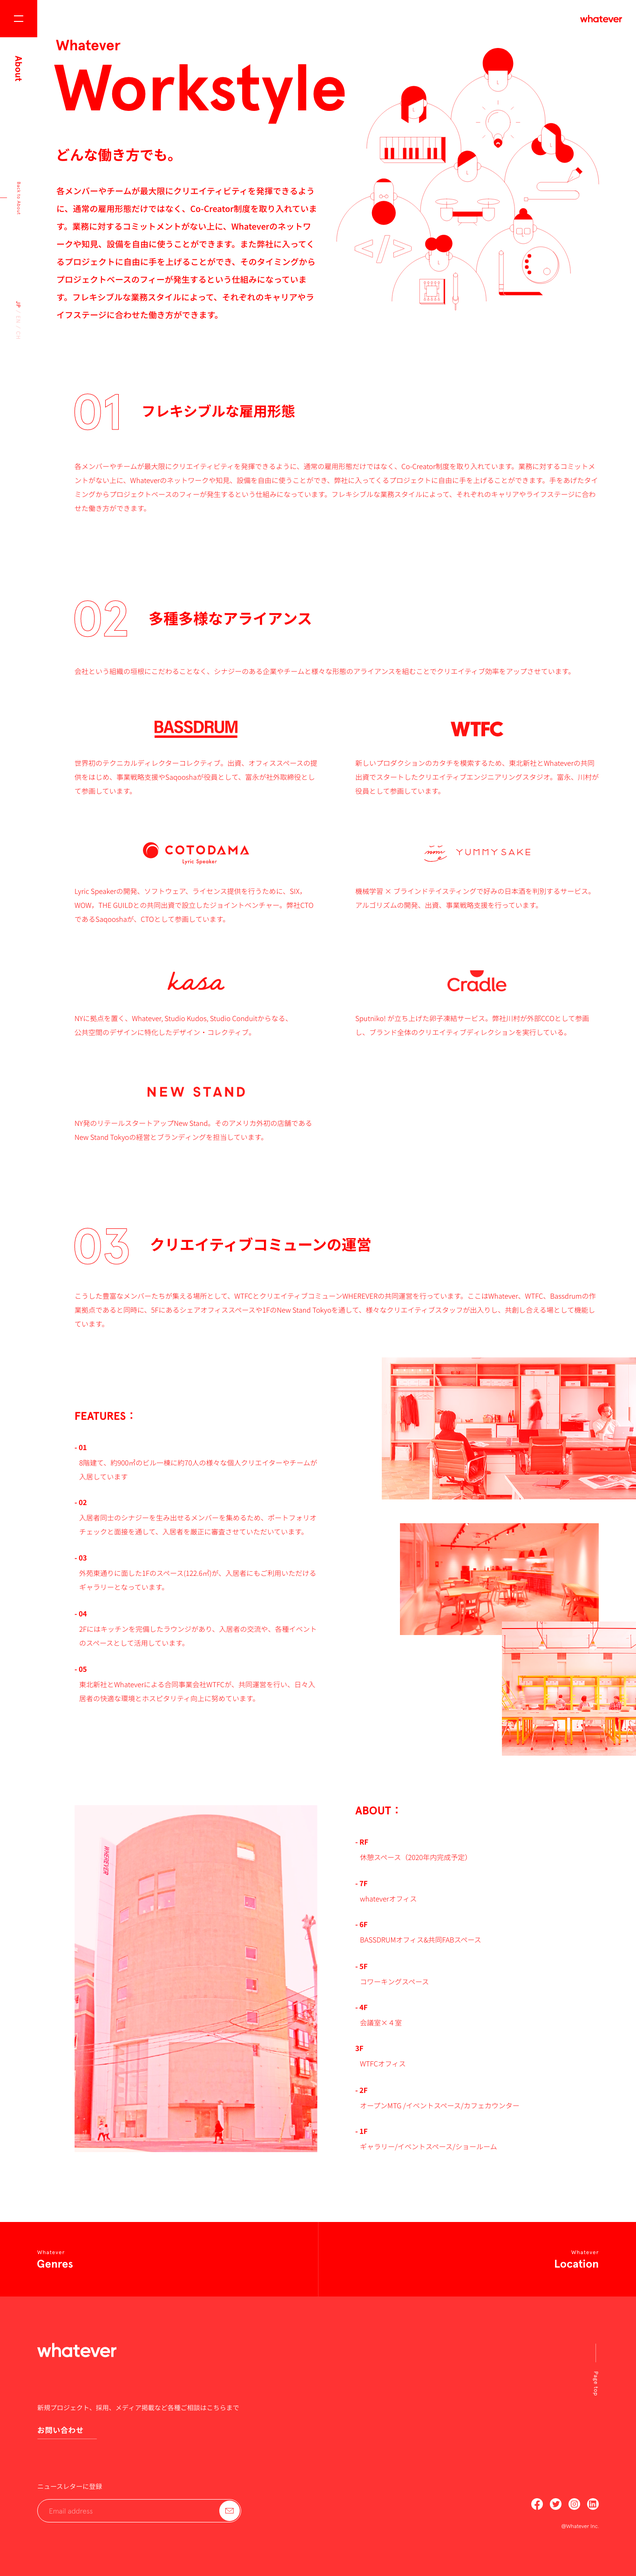
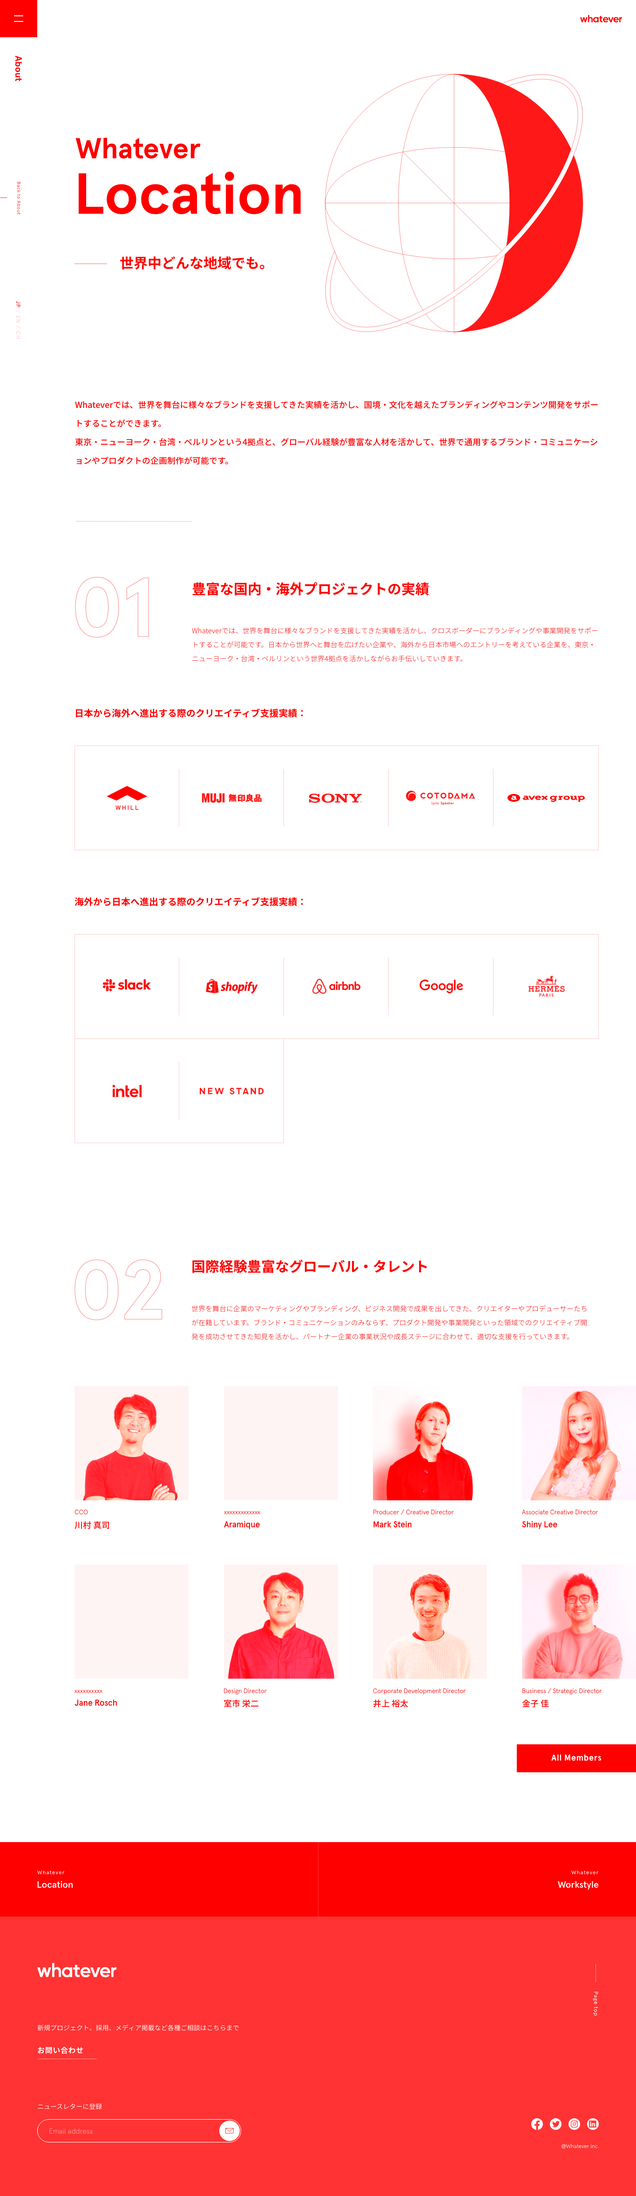
Location ja

diff --git a/pages/about/location.tsx b/pages/about/location.tsx
@@ -3,65 +3,69 @@ import Link from 'next/link'
 import { t, langStyle } from 'lib/i18n'
 import Layout from 'components/Layout'
 import { Header, Footer, SectionHeader } from 'components/About'
+import BlackButton from 'components/BlackButton'
+import React from 'react'
 
 const Section1 = () => (
   <div className={langStyle('section1')}>
-    <SectionHeader num="01" nx={-5} tx={{ ja: -4, en: -4 }} ty={{ ja: 26 }} title={t('location_1_title')!} />
-    <div className="t">{t('location_1_body')}</div>
-    <h2>{t('location_1_inhouse')}<hr /></h2>
-    <img className="logos1" src="/about/location/logos1@2x.png" alt="" />
-    <h2>{t('location_1_overseas')}<hr /></h2>
-    <img className="logos2" src="/about/location/logos2@2x.png" alt="" />
+    <hr />
+    <SectionHeader num="01" title={t('location_1_title')!} body={t('location_1_body')!} />
+    <h2>{t('location_1_inhouse')}</h2>
+    <div className="logos">
+      <img src="/about/location/whill.png" alt="WILL" />
+      <img src="/about/location/muji.png" alt="MIJI" />
+      <img src="/about/location/sony.png" alt="SONY" />
+      <img src="/about/location/cotodama.png" alt="Cotodama" />
+      <img src="/about/location/avex.png" alt="avex group" />
+    </div>
+    <h2>{t('location_1_overseas')}</h2>
+    <div className="logos" style={{ marginBottom: -1 }}>
+      <img src="/about/location/slack.png" alt="Slack" />
+      <img src="/about/location/shopify.png" alt="Shopify" />
+      <img src="/about/location/airbnb.png" alt="Airbnb" />
+      <img src="/about/location/google.png" alt="Google" />
+      <img src="/about/location/hermes.png" alt="HERMES" /></div>
+    <div className="logos2">
+      <img src="/about/location/intel.png" alt="intel" />
+      <img src="/about/location/newstand.png" alt="NEW STAND" />
+    </div>
     <style jsx>{`
-      vwpx(px)
-        'calc((100vw - 80px) * %s)' % (px / (1366 - 80))
+      @import 'lib/vw.styl'
       .section1
-        margin-top vwpx(115)
+        margin-top vwpx(108)
         margin-bottom vwpx(128)
         margin-left vwpx(80)
         width vwpx(1126)
-      .t
-        line-height 3.0rem
-        margin-top vwpx(43)
-        margin-bottom vwpx(56)
+      hr
+        margin 0
+        border 0
+        border-top 1px solid #B4B4B4
+        width vwpx_min(252)
+        margin-bottom vwpx(105)
       h2
         margin 0
         font-size vwpx(20)
-        display flex
-        justify-content space-between
-        align-items center
-        white-space nowrap
-        hr
-          margin 0
-          border none
-          border-top 1px solid black
+        margin-bottom 5.6rem
+      .logos, .logos2
+        display grid
+        grid-template-columns repeat(5, 1fr)
+        grid-gap 0
+        border 1px solid #CCCCCC
+        margin-bottom 94px
+        box-sizing border-box
+        width vwpx2(1126, 240)
+        img
           width 100%
-          margin-left vwpx(50)
-      .logos1
-        display block
-        width vwpx(1027)
-        margin-left vwpx(70)
-        margin-top vwpx(37)
-        margin-bottom vwpx(44)
+          height vwpx2(124, 240)
+          margin vwpx2(50, 240) 0
+          object-fit cover
+          border-right 1px solid #CCCCCC
+          mix-blend-mode multiply
+          &:last-child
+            border none
       .logos2
-        display block
-        width vwpx(1004)
-        margin-left vwpx(61)
-        margin-top vwpx(68)
-      .en
-        .t
-          font-size 1.6rem
-          margin-top vwpx(42)
-          margin-bottom vwpx(61)
-        h2
-          font-size vwpx(24)
-          hr
-            margin-bottom vwpx(4)
-        .logos1
-          margin-top vwpx(38)
-          margin-bottom vwpx(48)
-        .logos2
-          margin-top vwpx(69)
+        grid-template-columns repeat(2, 1fr)
+        width vwpx2(452, 240)
     `}</style>
   </div>
 )
@@ -73,50 +77,42 @@ const Member = ({ image, title, name, slug }: { image: string, title: string, na
       <div className="title">{title}</div>
       <div className="name">{name}</div>
       <style jsx>{`
-      vwpx(px)
-        'calc((100vw - 80px) * %s)' % (px / (1366 - 80))
-      .member
-        font-size 0
-        display block
-        border none
-      img
-        width vwpx(245)
-      .title
-        font-size vwpx(14)
-        font-weight 300
-        line-height vwpx(14)
-        margin-top vwpx(20)
-      .name
-        font-size vwpx(20)
-        font-weight bold
-        line-height vwpx(20)
-        margin-top vwpx(12)
-      .en
+        @import 'lib/vw.styl'
+        .member
+          font-size 0
+          display block
+          border none
+        img
+          width vwpx(245)
+        .title
+          font-size vwpx(14)
+          font-weight 300
+          line-height vwpx(14)
+          margin-top vwpx(19)
         .name
-          font-size vwpx(24)
-    `}</style>
+          font-size vwpx(18)
+          font-weight bold
+          line-height vwpx(18)
+          margin-top vwpx(12)
+      `}</style>
     </a>
   </Link>
 )
 
 const Section2 = () => (
   <div className={langStyle('section2')}>
-    <SectionHeader num="02" nx={-4} title={t('location_2_title')!} tx={{ ja: -3, en: 5 }} ty={{ ja: 27, en: 26 }} />
-    <div className="t">{t('location_2_body')}</div>
+    <SectionHeader num="02" title={t('location_2_title')!} body={t('location_2_body')!} />
     <div className="members">
       {t('location_2_members')?.split('\n\n').map(member => {
         const [title, name, link] = member.split('\n')
         return <Member key={link} image={link} title={title} name={name} slug={link} />
       })}
     </div>
-    <div className="link"><Link href="/team"><a>All Members</a></Link></div>
+    <div className="link"><BlackButton text="All Members" link="/team" /></div>
     <style jsx>{`
-      vwpx(px)
-        'calc((100vw - 80px) * %s)' % (px / (1366 - 80))
+      @import 'lib/vw.styl'
       .section2
-        margin-top vwpx(71)
-        margin-left vwpx(80)
-        margin-bottom vwpx(115)
+        margin vwpx(236) vwpx(80) vwpx(150)
       .t
         line-height 3.0rem
         margin-top vwpx(43)
@@ -124,24 +120,13 @@ const Section2 = () => (
       .members
         display grid
         grid-template-columns repeat(4, 1fr)
-        grid-gap vwpx(66) vwpx(75)
+        grid-gap vwpx(70) vwpx(75)
         margin-top vwpx(60)
       .link
         display flex
         justify-content flex-end
         margin-top vwpx(73)
-        a
-          display flex
-          justify-content center
-          align-items center
-          width vwpx(256)
-          height vwpx(60)
-          font-size vwpx(18)
-          font-weight bold
-          letter-spacing 0.04em
-          color white
-          background-color black
-          border none
+        margin-right vwpx(-80)
       .en
         .t
           font-size 1.6rem
@@ -155,7 +140,7 @@ const Section2 = () => (
 const Location = () => (
   <Layout title="About" side="About" backto="/about" footer={<Footer left="Workstyle" right="Genres" />}>
     <div className="container">
-      <Header title="Location" subtitle={t('location_title')!} desc={t('location_description')!} image="/about/pict03.svg" ty={{ ja: 19, en: 19 }} iy={{ ja: 1, en: -21 }} />
+      <Header headerMargin={79} title="Location" subtitle={t('location_title')!} desc={t('location_description')!} image="/about/pict03.svg" imageWidth={554} />
       <Section1 />
       <Section2 />
     </div>

diff --git a/components/Layout.tsx b/components/Layout.tsx
@@ -11,6 +11,7 @@ let templateName: string
 // templateName = 'About_index'
 // templateName = 'About_detail_01'
 // templateName = 'About_detail_02'
+// templateName = 'About_detail_03'
 // templateName = 'News_detail'
 
 type Props = {
@@ -26,7 +27,7 @@ const Layout = ({ children, footer, title = '', side = '', backto = '', showHead
   const templateStyle: { [prop: string]: string } = {}
   if (templateName) {
     templateStyle.backgroundImage = `url(/_/${templateName}_${useRouter().locale!}.png)`
-    templateStyle.backgroundPosition = 'top -24px left'
+    // templateStyle.backgroundPosition = 'top -40px left'
   }
   return (
     <div>

diff --git a/pages/about/workstyle.tsx b/pages/about/workstyle.tsx
@@ -18,7 +18,7 @@ const Section1 = () => (
       hr
         margin 0
         border 0
-        border-top 1px solid green
+        border-top 1px solid #B4B4B4
         width vwpx_min(252)
         margin-bottom vwpx(105)
     `}</style>
@@ -133,14 +133,13 @@ const Features = () => (
       .items
         margin-top vwpx(37)
         display grid
-        grid-template-columns 60px auto
+        grid-template-columns 70px auto
         grid-gap 3.4rem 0
       .name
         font-size 1.8rem
         font-weight bold
         line-height 3.0rem
       .desc
-        margin-left 1.0rem
         line-height 3.0rem
     `}</style>
   </div>

diff --git a/pages/about/genres.tsx b/pages/about/genres.tsx
@@ -41,7 +41,7 @@ const Section1 = () => (
       hr
         margin 0
         border 0
-        border-top 1px solid green
+        border-top 1px solid #B4B4B4
         width vwpx_min(252)
         margin-bottom vwpx(105)
       .images
